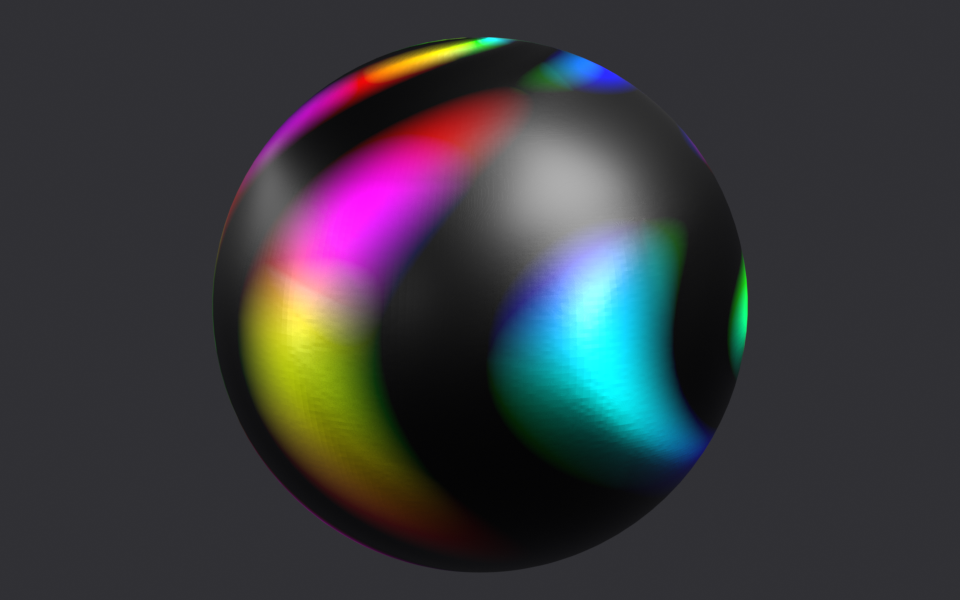
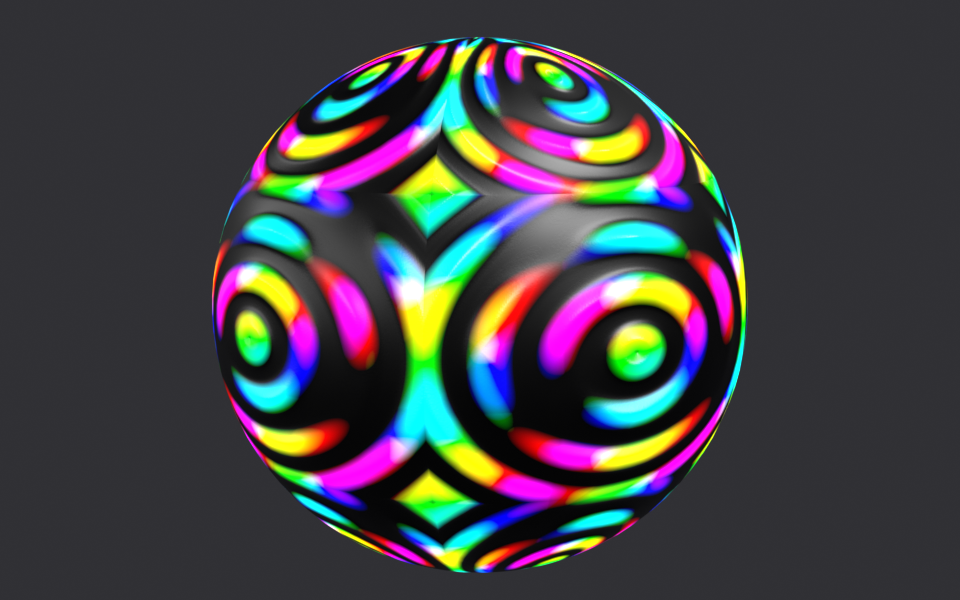
Refresh README for v1.5.0 and regenerate demo renders
Document the three new surface/transform/emission features, drop the
references to the removed recording helper scripts, and update the
evidence renders + self-check numbers to the current build.

diff --git a/README.md b/README.md
@@ -147,9 +147,9 @@ the open app:
    after adding the camera was the **camera**, not the mesh — so nothing was
    built on the sphere. The agent selects the sphere and re-applies.
 7. **Render pass 2** → `work/demo_pass2.png`, self-check again.
-8. **Result:** mean saturation **0.050 → 0.213**, texture now visible.
+8. **Result:** mean saturation **0.050 → 0.241**, texture now visible.
 
-Actual terminal output of the fix step:
+Actual terminal output of the fix step (numbers vary slightly per render):
 
 ```
 === STEP 5 - self-check the rendered pixels ===
@@ -159,13 +159,13 @@ The texture is not showing on the sphere.
 === STEP 6 - diagnose and fix ===
 Diagnosis: the image/material was applied to bpy.context.active_object,
 which was the camera - so nothing was built on the mesh.
-active object now: TextureDemo | material slots: ['TextureGUI'] | nodes: 22
+active object now: TextureDemo | material slots: ['TextureGUI'] | nodes: 27
 
 === STEP 7 - render pass 2 ===
-pass 2 stats: {'mean_sat': 0.213, 'mean_lum': 0.2236, ...}
+pass 2 stats: {'mean_sat': 0.241, 'mean_lum': 0.2552, ...}
 
 === RESULT ===
-mean saturation 0.050 -> 0.213
+mean saturation 0.050 -> 0.241
 fixed: True
 ```
 
@@ -175,22 +175,27 @@ out why, fixed it, and confirmed the fix with a second render.
 
 ---
 
-## 5. The add-on itself (Texture GUI, v1.2.0)
+## 5. The add-on itself (Texture GUI, v1.5.0)
 
 * Sidebar panel **View3D ▸ N ▸ Texture GUI**, collapsible sections, plus a
   floating-window version.
 * **Image:** pick or drag-and-drop a file straight into the viewport.
 * **Colour:** invert, desaturate, amount, hue (with a **hue colour bar**),
   saturation, brightness, contrast, gamma, temperature, tint, posterize.
-* **Transform:** scale, rotation, offset, flip.
+* **Transform:** overall scale, independent **Tiling X / Tiling Y**, rotation
+  with **−90°/+90° nudge buttons**, offset, flip.
 * **Surface:** relief, depth, invert-relief, procedural detail, roughness,
-  metallic, specular, IOR.
+  metallic, specular, IOR, and an optional **normal-map image + strength**.
 * **Surface — Advanced:** coat, coat roughness, sheen, sheen roughness,
   anisotropy, subsurface, transmission, alpha.
-* **Emission:** glow strength + glow tint.
+* **Emission:** glow strength, glow tint, and **Glow From Image** (emission
+  driven by the texture's brightness).
 * **Presets:** Matte, Glossy, Plastic, Ceramic, Metal, Brushed, Velvet, Glass,
   Glowing.
 * Separate **Reset** for colour / transform / surface / everything.
+
+Development history (see `git log`): v1.3.0 added X/Y tiling + rotation buttons,
+v1.4.0 added the normal-map slot, v1.5.0 added brightness-masked glow.
 
 ---
 
@@ -200,15 +205,13 @@ out why, fixed it, and confirmed the fix with a second render.
 machine's terminal did not have macOS Screen Recording permission, and granting
 it requires restarting the terminal that was running the session.
 
-To produce it in one command (whole main display, terminal + Blender side by
-side):
+To record it yourself (whole main display, terminal + Blender side by side):
 
 ```sh
-cd pfa_week_5 && ./record_and_run.sh 45     # -> recording.mov
+# record the main display for 60s while you run the job in another window
+screencapture -v -V 60 -k -D 1 recording.mov
+python3 demo_job.py
 ```
-
-See `RECORDING.md` for the 60-second shot list. `record.sh` records only and you
-run `python3 demo_job.py` yourself.
 
 ---
 
@@ -217,13 +220,10 @@ run `python3 demo_job.py` yourself.
 ```
 pfa_week_5/
 ├─ README.md
-├─ RECORDING.md
 ├─ texture_gui.py          # the add-on the agent wrote
 ├─ demo_job.py             # the multi-step job + self-check + fix
 ├─ bridge_client.py        # port client (stdlib only)
 ├─ bridge/                 # the port / MCP bridge (also at github.com/ikao1/blender-bridge)
-├─ record.sh               # records the screen (whole display)
-├─ record_and_run.sh       # records + runs the job in one command
 ├─ assets/test_texture.png
 └─ work/                   # renders + the agent's earlier style/relief proofs
 ```
